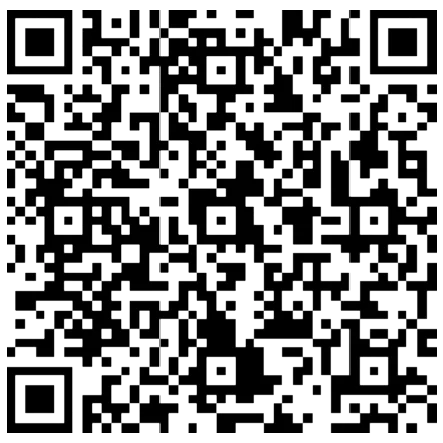
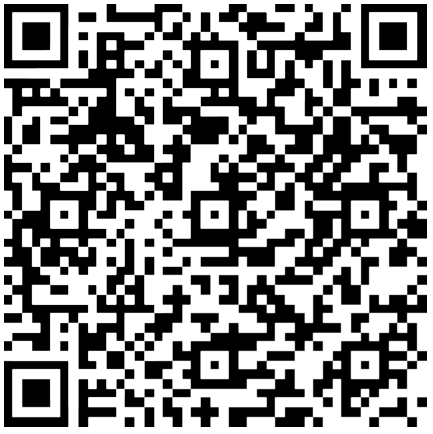
fix: update contact information

diff --git a/src/app/components/contact-info.jsx b/src/app/components/contact-info.jsx
@@ -20,8 +20,8 @@ export default function ContactInfo({ tabNum, onQrClick }) {
 
 						<span className="h6">E-Mail</span>
 						<Link
-							url="mailto:noah.bachmann@kauz.ch"
-							name="noah.bachmann@kauz.ch"/>
+							url="mailto:public@noahbachmann.ch"
+							name="public@noahbachmann.ch"/>
 
 
 						<span className="h6">Download Contact</span>
